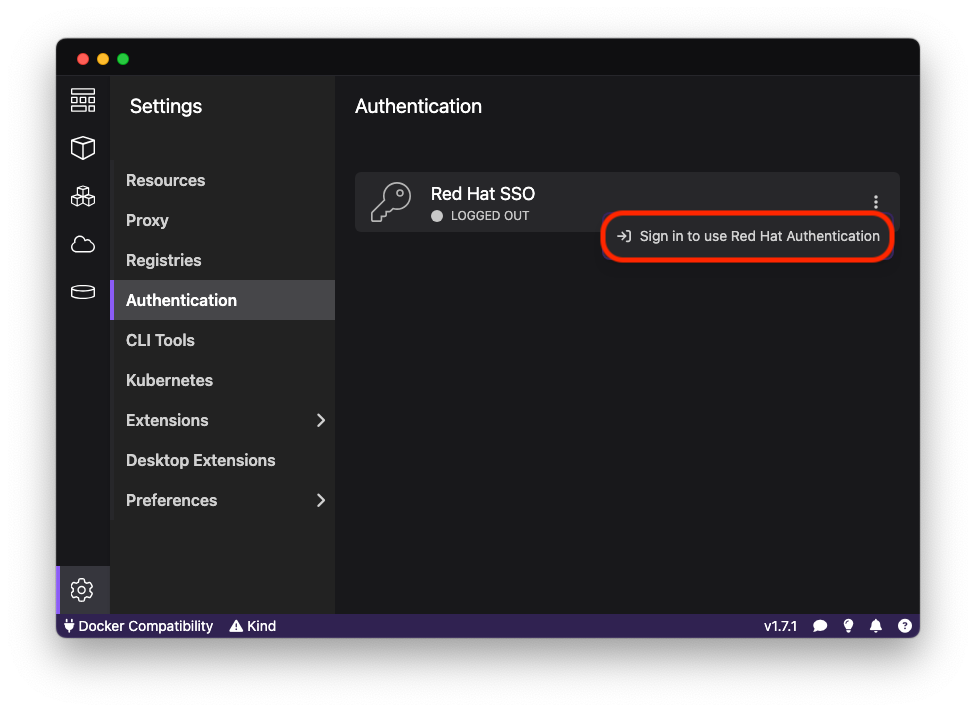
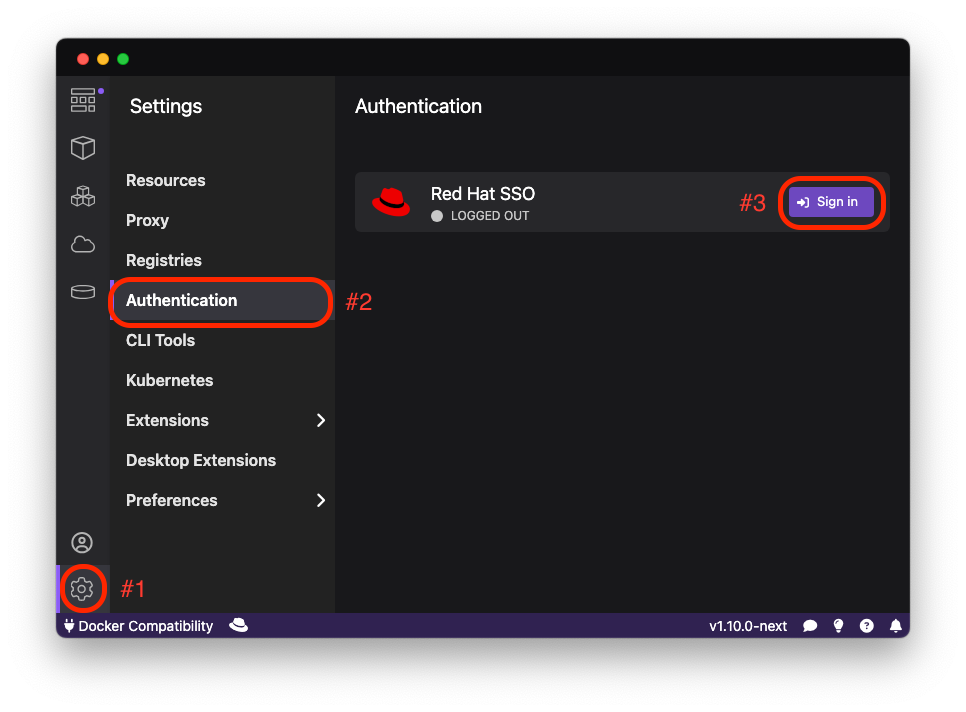
update README with new screenshots (#117)
The screenshots are currently pointing to the `main` branch.
The references can be updated once we cut a 1.0 branch.

diff --git a/README.md b/README.md
@@ -1,24 +1,20 @@
 # Podman Desktop Red Hat Account Extension
 
-An extension for Podman Desktop to simplify logging into and creating a Red Hat account.  The extension opens sso.redhat.com in the browser to retrieve an SSO token upon successful login.  The SSO token is then used to log into the Red Hat Container Registry ([registry.redhat.io](https://catalog.redhat.com/)) and to register the Linux virtual machine powering Podman Desktop via subscription-manager to grant the containers access to protected Red Hat content such as RHEL repositories.  The SSO form guarantess that each user, new and existing, has a valid [Red Hat Developers Subscription](https://developers.redhat.com/) which will be used to register the virtual machine at no cost.
+An extension for Podman Desktop to simplify logging into and creating a Red Hat account.  The extension opens sso.redhat.com in the browser to retrieve an SSO token upon successful login.  The SSO token is then used to log into the Red Hat Container Registry ([registry.redhat.io](https://catalog.redhat.com/)) and to register the Linux virtual machine powering Podman Desktop via subscription-manager to grant the containers access to protected Red Hat content such as RHEL repositories.  The SSO form guarantees that each user, new and existing, has a valid [Red Hat Developers Subscription](https://developers.redhat.com/) which will be used to register the virtual machine at no cost.
 
 # Installation
 
-The extension is currently available in an Alpha version but ready to test.  Extension for Podman Desktop are shipped as OCI container images.  Please refer to the [Podman Desktop documentation](https://podman-desktop.io/docs/extensions/install) for installation instructions and to [Quay.io](https://quay.io/repository/redhat-developer/podman-desktop-redhat-account-ext?tab=tags) for available tags.
+You can install the Red Account Extension directly inside of Podman Desktop.  It is also part of the Red Hat Extension Pack:
 
-The latest available image is `quay.io/redhat-developer/podman-desktop-redhat-account-ext:0.0.2`.
+![image](https://raw.githubusercontent.com/redhat-developer/podman-desktop-redhat-account-ext/main/screenshots/extension-pack.png)
 
-Starting with Podman 5.0, subscription-manager will be shipped by default.  For prior versions, the extension will take care of installing subscription-manager which may take a short while and requires a reboot.
+Extensions for Podman Desktop are shipped as OCI container images, which can be manually installed in the Extensions menu of Podman Desktop.  Please refer to the [Podman Desktop documentation](https://podman-desktop.io/docs/extensions/install) for installation instructions and to [Quay.io](https://quay.io/repository/redhat-developer/podman-desktop-redhat-account-ext?tab=tags) for available tags of the Red Hat Account Extension.
 
 # Usage
 
-Once installed, you can find the extension in the Settings menu which you can find in the bottom left corner of Podman Desktop:
+Once installed, you can find the extension in the Settings menu which you can find in the bottom left corner of Podman Desktop.  To sign into your Red Hat account, open the Authentication menu and click on the "Sign in" button:
 
-![image](https://raw.githubusercontent.com/redhat-developer/podman-desktop-redhat-account-ext/v0.0.2/screenshots/settings.png)
-
-To sign into your Red Hat account, open the Authentication menu and click on the drop-down button:
-
-![image](https://raw.githubusercontent.com/redhat-developer/podman-desktop-redhat-account-ext/v0.0.2/screenshots/authentication-menu.png)
+![image](https://raw.githubusercontent.com/redhat-developer/podman-desktop-redhat-account-ext/main/screenshots/authentication-menu.png)
 
 To sign into your Red Had account, Podman Desktop will open Red Hat SSO in your browser of choice.  The SSO form will make sure that each user has accepted the terms and conditions, and has a valid Red Hat [developers subscription](https://developers.redhat.com/about?source=sso). If needed, you may also create a new Red Hat account and further use social login via an existing Google, Microsoft or GitHub account:
 
@@ -26,7 +22,7 @@ To sign into your Red Had account, Podman Desktop will open Red Hat SSO in your 
 
 Once signed in, there is nothing further to be done. Podman Desktop will automatically use the SSO token to log into the Red Hat container registry and to register the Linux virtual machine (i.e., podman machine) via subscription-manager. The two tasks are listed in the Tasks menu which you can open on the bottom right of Podman Desktop:
 
-![image](https://raw.githubusercontent.com/redhat-developer/podman-desktop-redhat-account-ext/v0.0.2/screenshots/tasks.png)
+![image](https://raw.githubusercontent.com/redhat-developer/podman-desktop-redhat-account-ext/main/screenshots/tasks.png)
 
 To verify that the sign-in process was successful, you may build the following Dockerfile:
 ```Dockerfile
@@ -37,7 +33,7 @@ RUN  dnf install -y kernel
 Pulling the container image `registry.redhat.io/rhel9/toolbox` requires having logged into the Red Hat container registry.  Installing the `kernel` package requires access to protected content.
 
 Once signed in, you can now see being logged into the Red Hat Container Registry `registry.redhat.io` in the Registries menu:
-![image](https://raw.githubusercontent.com/redhat-developer/podman-desktop-redhat-account-ext/v0.0.2/screenshots/registries.png)
+![image](https://raw.githubusercontent.com/redhat-developer/podman-desktop-redhat-account-ext/main/screenshots/registries.png)
 
 ## Usage on Linux
 
